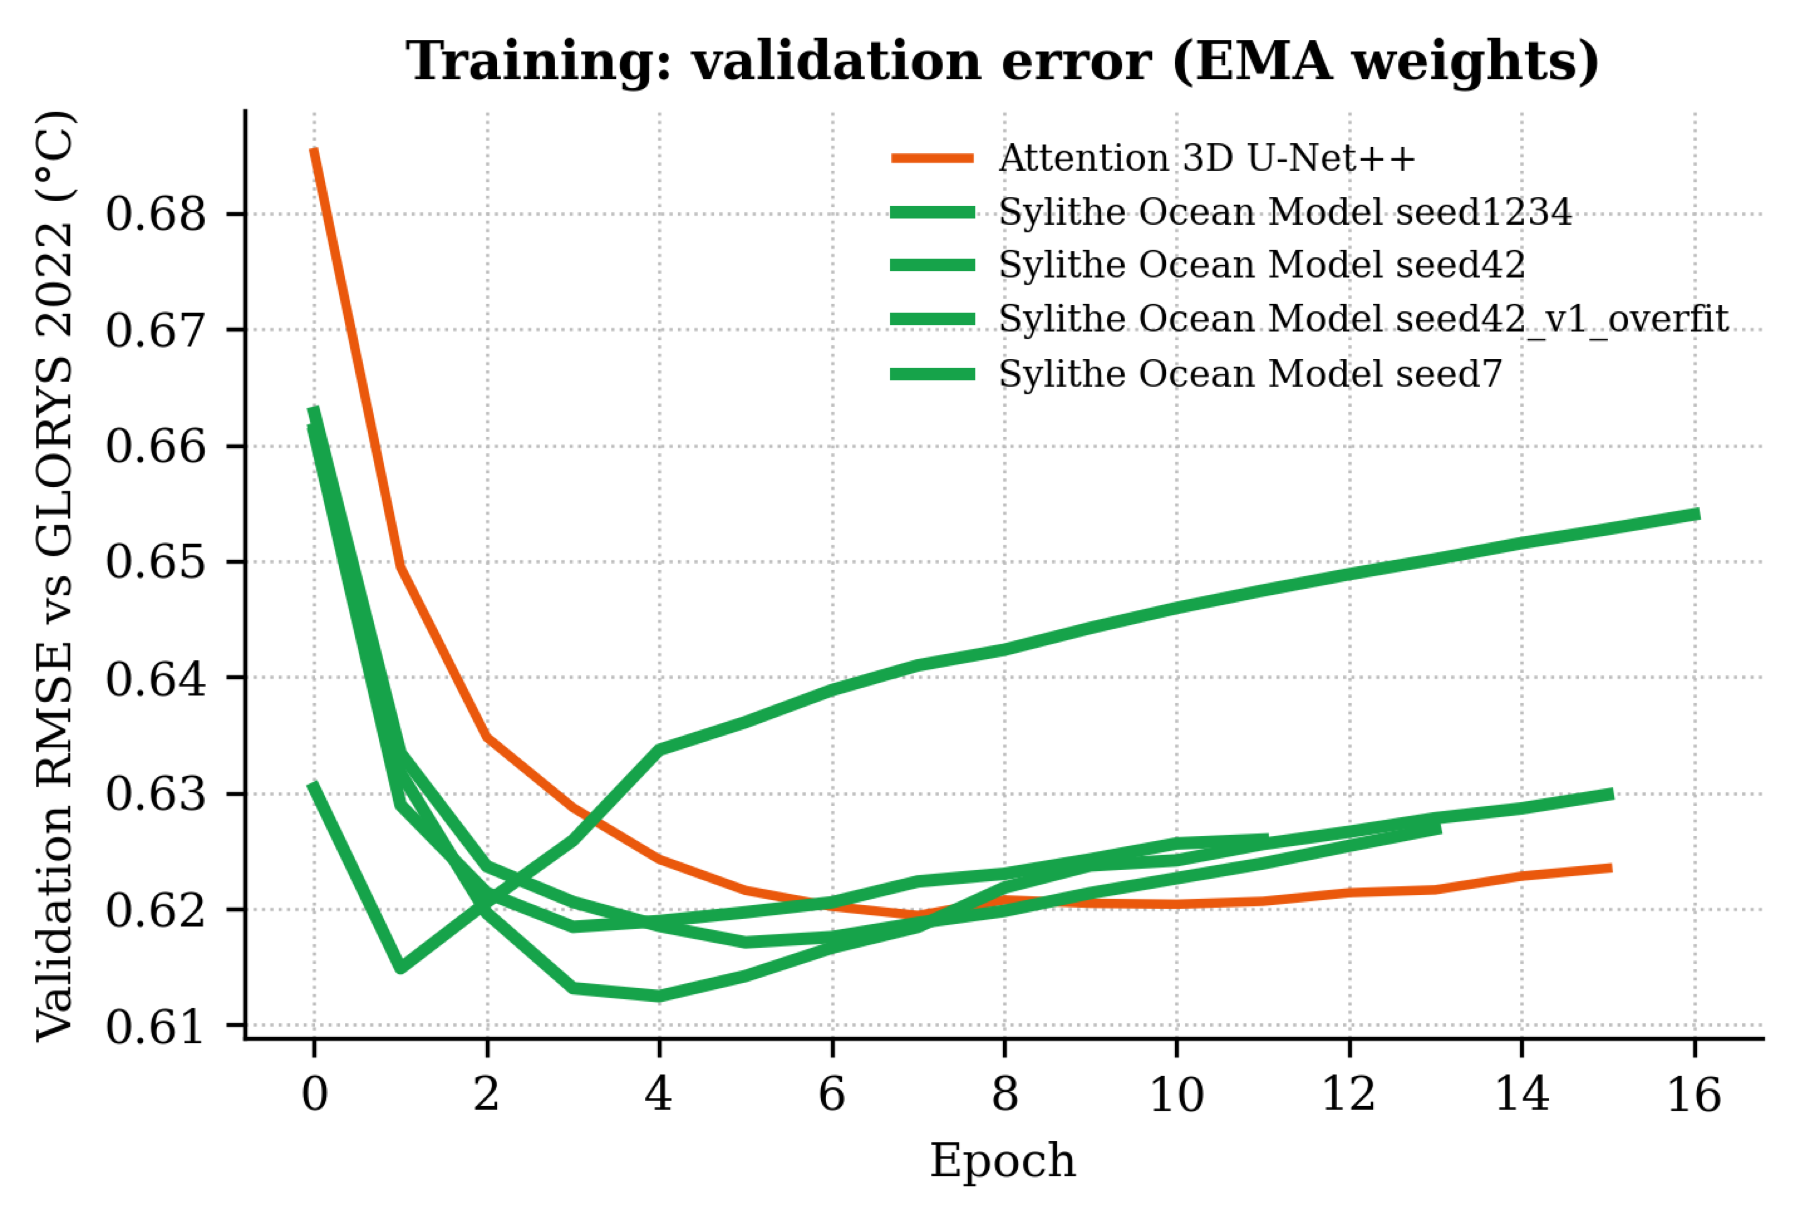
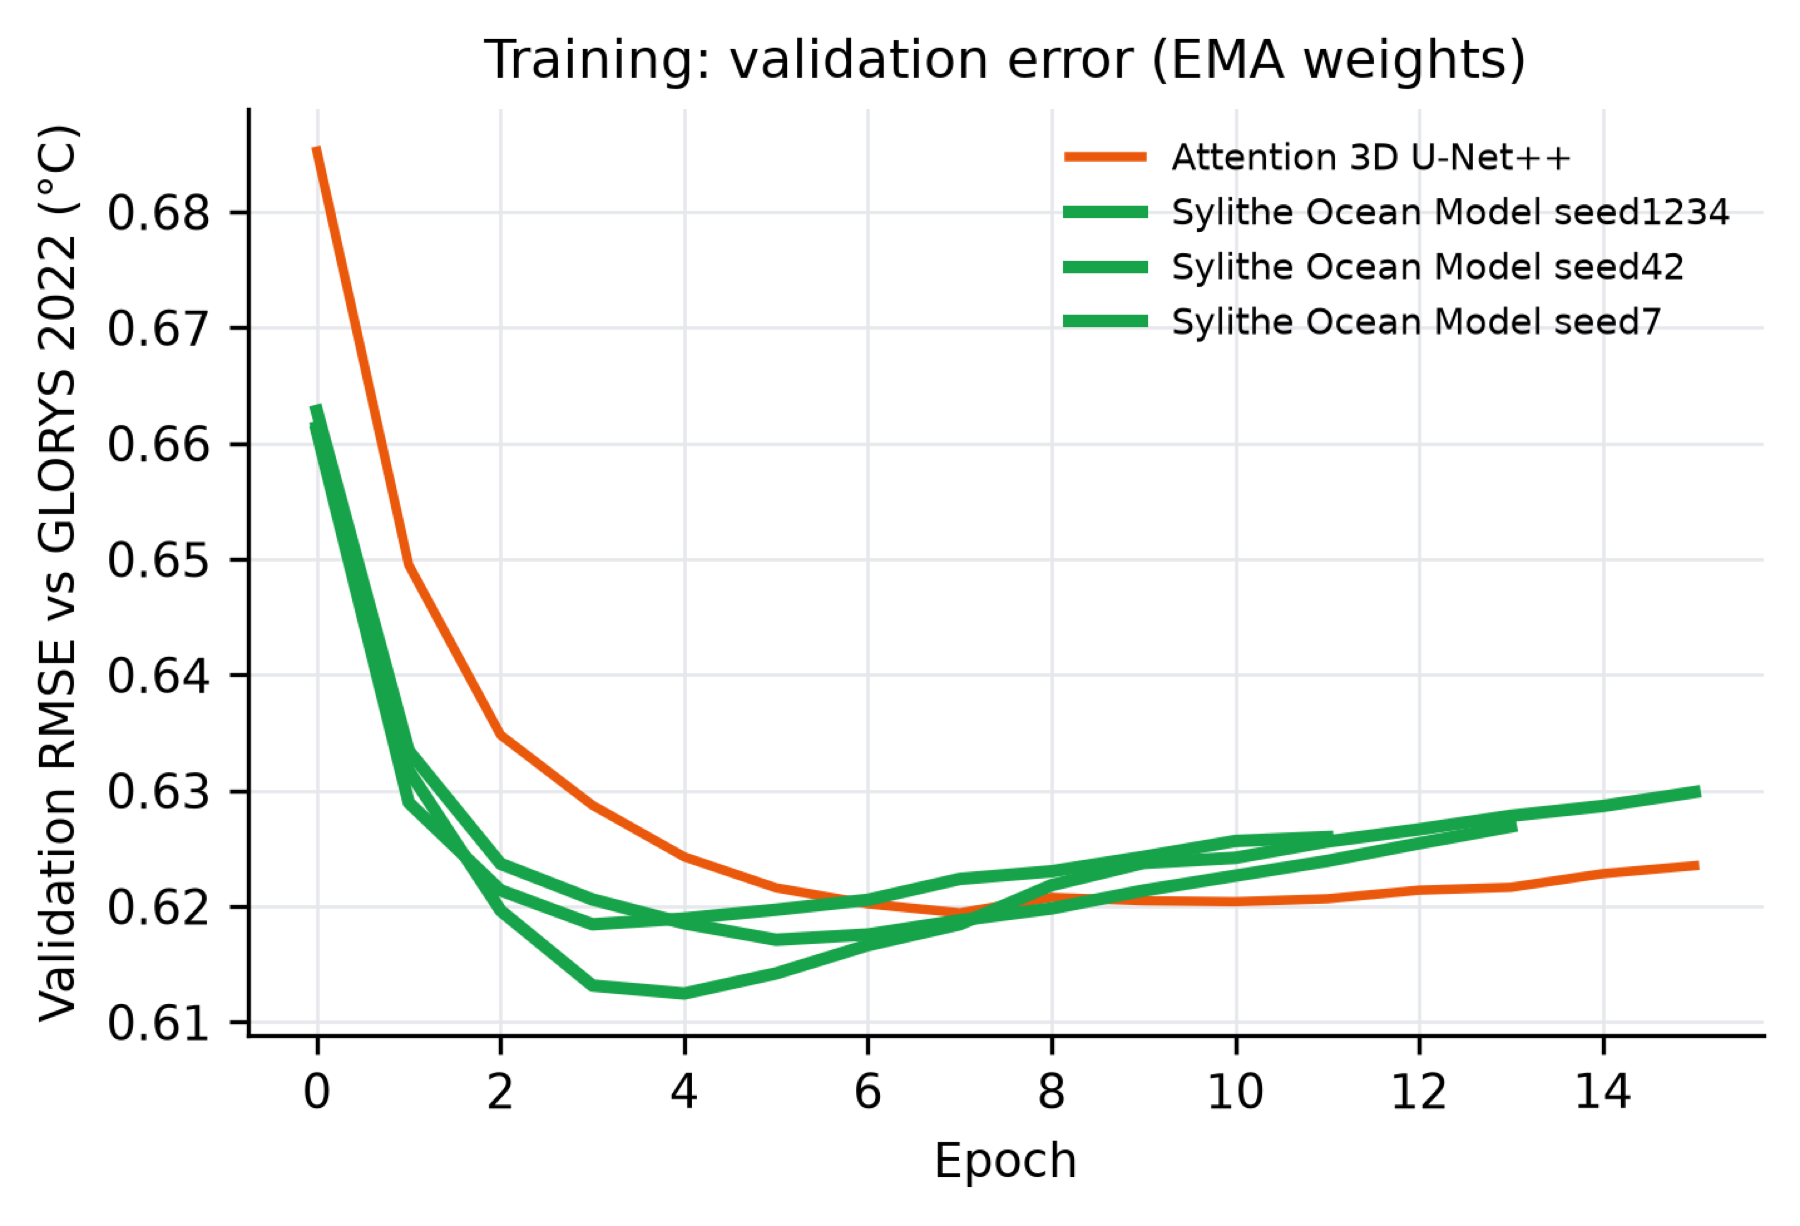
fix(figures): training curves show only the final runs

diff --git a/oceanembed/figures.py b/oceanembed/figures.py
@@ -110,7 +110,9 @@ class Figs:
         if not os.path.exists(p) or os.path.getsize(p) < 10:
             return
         t = pd.read_csv(p)
-        runs = [r for r in t.run.unique() if r.endswith("glorys")]
+        import re
+        # final runs only: seed<digits>/glorys for ours, the published method; archived runs (e.g. *_v1_overfit) left out
+        runs = [r for r in t.run.unique() if r.endswith("glorys") and ("attn" in r or re.search(r"/seed\d+/glorys$", r))]
         if not runs:
             return
         fig, ax = plt.subplots(figsize=(5.2, 3.2))
